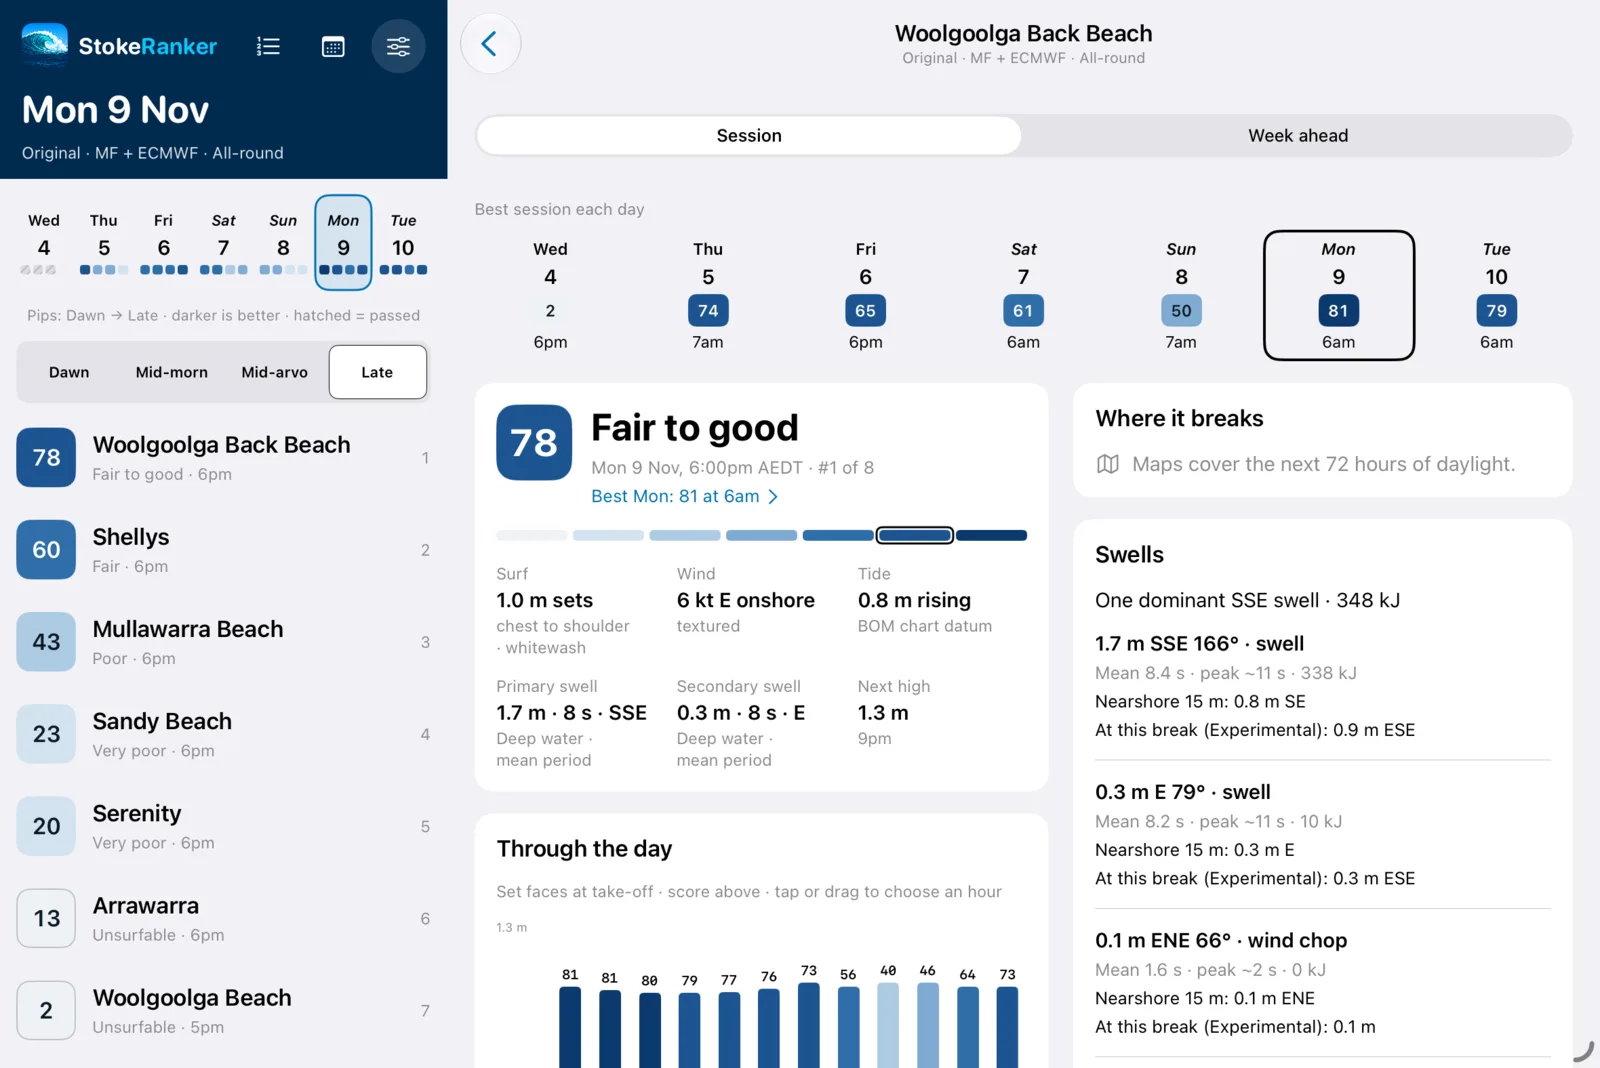
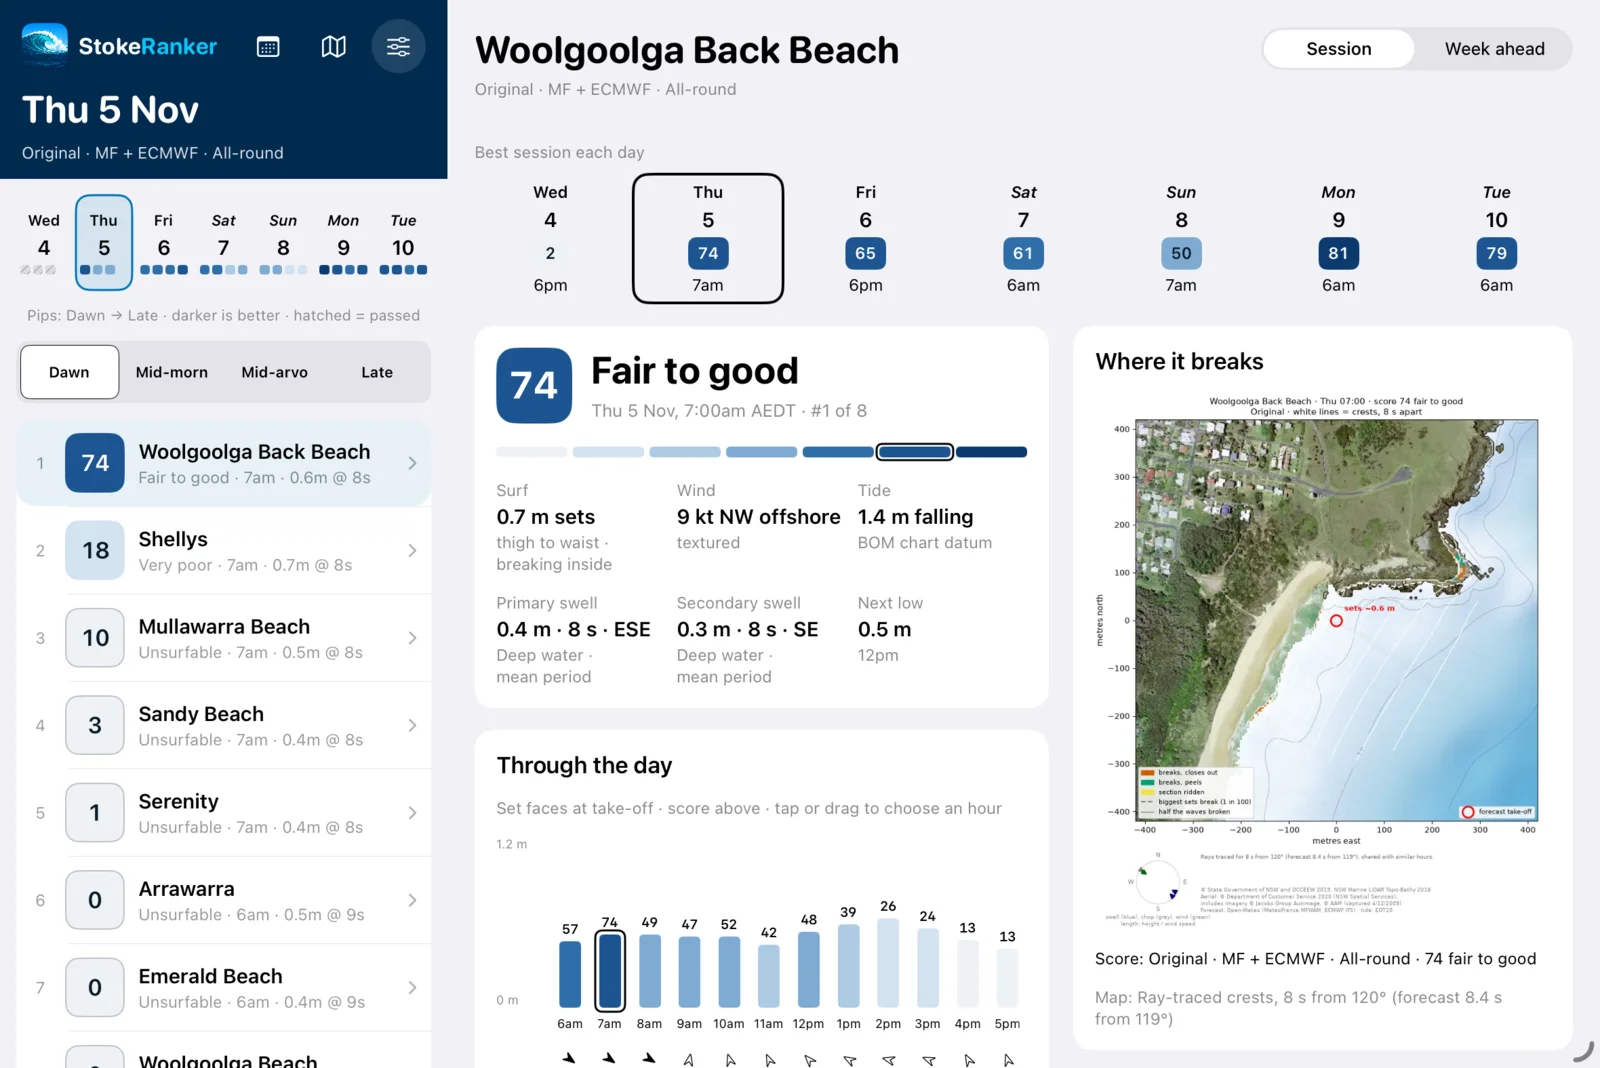
Break-page shot with a drawn wave map (Woolgoolga Back Beach, Thu 7am)

diff --git a/layouts/home.html b/layouts/home.html
@@ -4,7 +4,7 @@
 <section id="features" class="section wrap"><div class="section-heading"><p class="eyebrow">A LITTLE LOCAL KNOWLEDGE</p><h2>More than an offshore swell number.</h2><p>A headland, the tide and the angle of the swell can change the story. StokeRanker models those differences for each break.</p></div><div class="feature-grid"><article class="feature"><span class="feature-number">01 / COMPARE</span><h3>Pick a session, see the options.</h3><p>Compare local breaks for dawn, mid-morning, mid-arvo or late arvo. Check estimated wave size, wind and the best forecast hour for each session.</p></article><article class="feature"><span class="feature-number">02 / UNDERSTAND</span><h3>Every score has its reasons.</h3><p>Each session gets a score out of 100 and a plain word, from unsurfable to good. See how swell, wind, tide and local shelter add up to it, and switch surfer profile (All-round, Mellow or Performance) to see what suits your kind of surfing.</p></article><article class="feature"><span class="feature-number">03 / PLAN</span><h3>Find a window in the week.</h3><p>Look across the forecast week, then dig into the hours at a break. Switch between ECMWF and GFS forecasts, and between the Original and Experimental scoring models, when you want a second opinion.</p></article><article class="feature"><span class="feature-number">04 / EXPLORE</span><h3>Put the forecast on the coast.</h3><p>Browse breaks on the regional map, then see where along a beach the waves are expected to break, worked out from local seabed and coastline data.</p></article></div></section>
 <section class="section showcase"><div class="wrap"><div class="section-heading"><p class="eyebrow">THE WEEK AT A GLANCE</p><h2>Every break, every session, all week.</h2><p>Four sessions a day for seven days, darker where it’s better. Spot the window, then tap in for the detail.</p></div><figure class="wide-shot"><img src="{{ "images/ipad-week.webp" | relURL }}" alt="StokeRanker week board on iPad: a row per break and a cell per session for seven days, shaded darker where the score is higher. Woolgoolga Back Beach, Mullawarra and Shellys darken towards Monday and Tuesday." width="1600" height="1068" loading="lazy"><figcaption>Screenshots show an example forecast, not current conditions.</figcaption></figure></div></section>
 <section class="section wrap"><div class="section-heading"><p class="eyebrow">ON THE MAP</p><h2>From the whole coast to a single beach.</h2><p>See every break’s score along the coast, then zoom in for the wind and swell at the one you’re eyeing off.</p></div><div class="two-up"><figure class="phone-shot"><img src="{{ "images/iphone-map.webp" | relURL }}" alt="StokeRanker regional map on iPhone: score pins along the coast from Arrawarra to Emerald, with Woolgoolga Back Beach highlighted at 78." width="700" height="1522" loading="lazy"><figcaption>The coast for one session.</figcaption></figure><figure class="wide-shot"><img src="{{ "images/ipad-map-zoom.webp" | relURL }}" alt="StokeRanker map zoomed in to Woolgoolga on iPad: satellite view with cards for Woolgoolga Back Beach, 78, and Woolgoolga Beach, 2, each showing wind and swell direction dials." width="1600" height="1068" loading="lazy"><figcaption>Zoomed in: wind and swell at each break.</figcaption></figure></div></section>
-<section class="section showcase"><div class="wrap"><div class="section-heading"><p class="eyebrow">EVERY SCORE HAS ITS REASONS</p><h2>Open a break, see the working.</h2><p>Wave height at the take-off, wind, tide and every swell in the water, plus what’s holding the score back and the best session each day.</p></div><figure class="wide-shot"><img src="{{ "images/ipad-break.webp" | relURL }}" alt="StokeRanker break page on iPad for Woolgoolga Back Beach: score 78, fair to good, with 1.0 m sets, 6 knot easterly, 0.8 m rising tide, the swells in the water and an hourly chart for the day." width="1600" height="1068" loading="lazy"></figure></div></section>
+<section class="section showcase"><div class="wrap"><div class="section-heading"><p class="eyebrow">EVERY SCORE HAS ITS REASONS</p><h2>Open a break, see the working.</h2><p>Wave height at the take-off, wind, tide and every swell in the water, the best session each day, and a map of where the waves are expected to break.</p></div><figure class="wide-shot"><img src="{{ "images/ipad-break.webp" | relURL }}" alt="StokeRanker break page on iPad for Woolgoolga Back Beach on Thursday at 7am: score 74, fair to good, with 0.7 m sets, a 9 knot north-westerly offshore, a 1.4 m falling tide, an hourly chart, and a satellite map of the beach showing wave crests and where they are expected to break." width="1600" height="1068" loading="lazy"><figcaption>Where it breaks: wave crests traced in from the forecast swell over local seabed data.</figcaption></figure></div></section>
 <section class="section wrap"><div class="story-grid"><div><p class="eyebrow">BUILT HERE. STILL LEARNING.</p><h2>A forecast you can question.</h2><p>StokeRanker combines public marine and weather forecasts with local break knowledge, tide modelling, seabed data and headland shelter.</p><p>It starts with eight breaks on the northern beaches, where every forecast can be checked against the surf. More of the coast will follow as the model improves.</p><p>It’s an independent project by Rob McLeay, checked since October 2026 against rated sessions logged on the beach. Scores are estimates, and the models are still developing. Your eyes on the beach matter.</p></div><ol class="steps"><li><strong>Choose your time.</strong><p>Start with the session you can actually surf.</p></li><li><strong>Compare the coast.</strong><p>Look at the rankings, wave size, wind and the explanation behind each score.</p></li><li><strong>Tell Rob which forecast was right.</strong><p>Use the feedback button on a forecast, or email the break, time and what you saw.</p></li></ol></div></section>
 <section id="access" class="section wrap"><div class="access-panel"><div><p class="eyebrow">COME TRY IT</p><h2>Help pick the forecast that gets it right.</h2><p>The trial runs two scoring models, Original and Experimental, on two forecast sources, ECMWF and GFS. Check them before you paddle out, then tell Rob which one matched the beach.</p><p>It’s free. For 100 years. Email Rob for the TestFlight trial or a web app link, and say which breaks you surf.</p></div><div>{{ partial "cta.html" "Request early access ↗" }}<p class="small-note">No ads, no subscription.<br>iPhone &amp; iPad: iOS/iPadOS 26 or later.<br>Web app: a modern browser.</p><a href="mailto:{{ site.Params.contact }}">{{ site.Params.contact }}</a></div></div></section>
 {{ end }}
